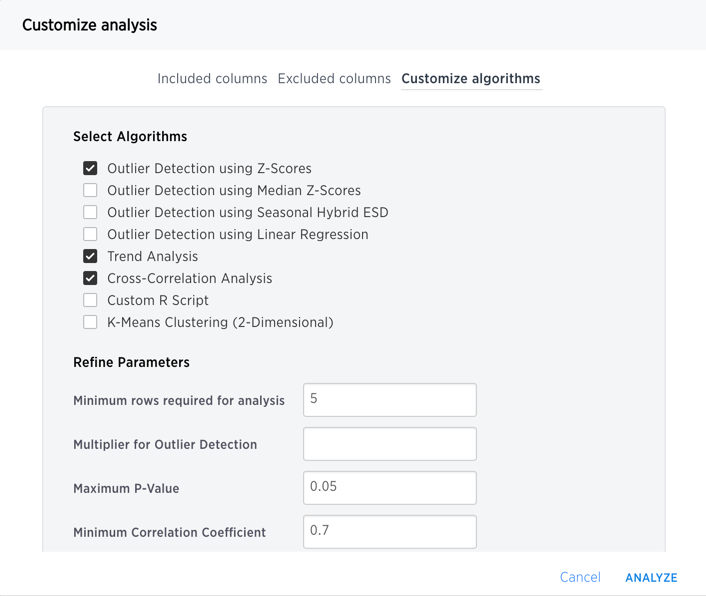
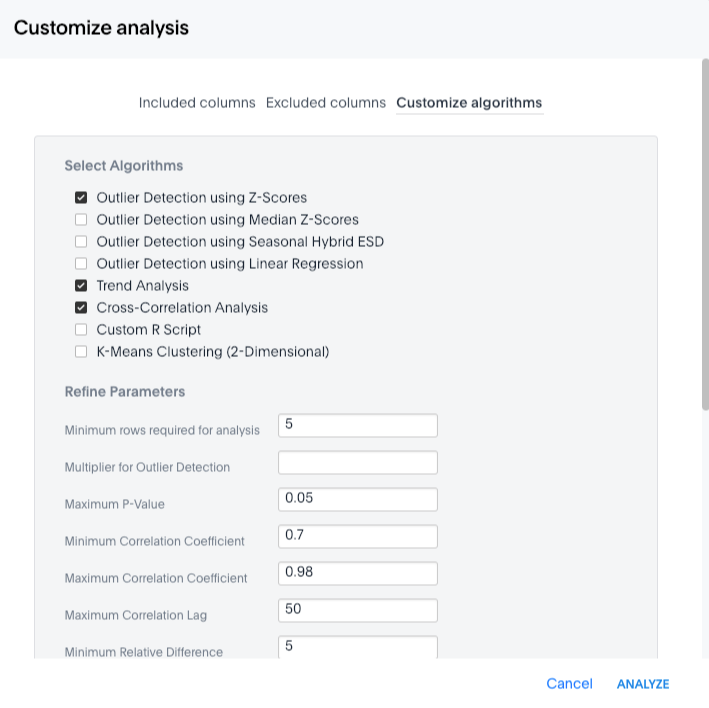
SCAL-31868 SpotIQ personalization + SearchIQ entity categories updates for 5.1

diff --git a/_admin/data-modeling/data-modeling-settings.md b/_admin/data-modeling/data-modeling-settings.md
@@ -29,7 +29,7 @@ This index lists the editable data modeling settings. With three exceptions, the
 | [Aggregation](change-aggreg-additive.html#) | Sets the default aggregation type for a column. |
 | [Hidden](change-visibility-synonym.html#) | Sets the visibility of a column. |
 | [Synonyms](change-visibility-synonym.html#) | Adds synonyms that can be used in the search bar to refer to a column. |
-| [SpotIQ Preference](change-visibility-synonym.html#) | Excludes specified columns from SpotIQ analyses. By Default, all columns are included in SpotIQ.|
+| [SpotIQ Preference](spotiq-data-model-preferences.html#) | Excludes specified columns from SpotIQ analyses. By Default, all columns are included in SpotIQ.|
 | [Index Type](change-index.html#) | Sets the type of index that will be created for a column. |
 | [Geo Config](model-geo-data.html#) | Enables a column to be used in GeoMap visualizations. |
 | [Index Priority](change-column-priority.html#) | Changes the priority of a column in search suggestions. |
@@ -37,7 +37,6 @@ This index lists the editable data modeling settings. With three exceptions, the
 | [Currency Format](set-format-pattern-numbers.html#set-currency-format) | Specifies the format to use when showing the currencies in a column. |
 | [Attribution Dimension](attributable-dimension.html#) | Only applies to tables that join over a [Chasm Trap]({{ site.baseurl }}/admin/loading/chasm-trap.html#). Designates whether the tables depend on this column for attribution. |
 | [Entity Category](set-entity-category.html#) | Specifies how to categorize the data in the column by entity type. Options are `PERSON`, `PLACE`, `TIME`, `MONEY`, `PRODUCT`, `ZIP_CODE`, `LAT_LONG`, `COMPANY_ORG`, `NUM_TYPES`. By default, `ENTITY TYPE` is not set. <br><br> Entity categories support [SearchIQ]({{ site.baseurl }}/end-user/search/about-searchiq.html#) so that when you type a natural question, ThoughtSpot better knows how to interpret it. <br><br>For example, if you ask "who are the top performers?" ThoughtSpot will first choose columns set with `PERSON` from which to return answers. If you ask "when was the movie Jurassic Park released?", columns set to `TIME` will be used to answer the "when" part of the question, and so forth.|
-
 
 ## Data modeling for worksheets
 

diff --git a/_admin/data-modeling/set-entity-category.md b/_admin/data-modeling/set-entity-category.md
@@ -1,0 +1,50 @@
+---
+title: [Set entity categories for SearchIQ ]
+keywords: tbd
+last_updated: tbd
+summary: "You can specify a per column entity category to help SearchIQ."
+sidebar: mydoc_sidebar
+permalink: /:collection/:path.html
+---
+
+[SearchIQ]({{ site.baseurl}}/end-user/search/about-searchiq.html) is a search
+experience that allows you to ask more natural questions, similar to the way you
+might talk to a person.
+
+If you have access to tables and worksheets for data modeling purposes, you can
+specify columns entity types for different columns in your data sources which
+support the SearchIQ user experience.
+
+## About the Entity Categories
+
+| Category            | Description                                          |
+| :---                | :---                                                 |
+| PERSON              |                                                      |
+| PLACE               |                                                      |
+| TIME                |                                                      |
+| PRODUCT             |                                                      |
+| ZIP_CODE            |                                                      |
+| LAT_LONG            |                                                      |
+| COMPANY_ORG         |                                                      |
+| NUM_TYPES           |                                                      |
+
+## Set Entity Categories
+
+To specify entity categories:
+
+1. Click **Data** in the top menu, and choose **Tables** or **Worksheets**.
+
+2. Click on the name of your table or worksheet.
+
+3. On the **Columns** tab, find the COLUMN NAMES for which you want to specify entity categories, and scroll to the right to find `ENTITY CATEGORY`.
+
+4. Use the drop-down menu to set the `ENTITY CATEGORY` to the type you want.
+
+5. Click **SAVE CHANGES** in the upper right.
+
+
+## Related information
+
+* [SpotIQ tutorial]({{ site.baseurl}}/spotiq/whatisspotiq.html)
+
+* [Overview of data modeling settings]({{ site.baseurl}}/admin/data-modeling/data-modeling-settings.html)

diff --git a/_admin/data-modeling/spotiq-data-model-preferences.md b/_admin/data-modeling/spotiq-data-model-preferences.md
@@ -1,0 +1,52 @@
+---
+title: [Set columns to exclude from SpotIQ analyses ]
+keywords: tbd
+last_updated: tbd
+summary: "You can specify columns to exclude from SpotIQ analyses."
+sidebar: mydoc_sidebar
+permalink: /:collection/:path.html
+---
+
+[SpotIQ tutorial]({{ site.baseurl}}/spotiq/whatisspotiq.html) is a ThoughtSpot
+feature  that helps users insights in data by automatically surfacing
+interesting characteristics.
+
+If you have access to tables and worksheets for data modeling purposes, you can specify columns to exclude from SpotIQ analyses from data sources. By default, all columns are included in SpotIQ analyses.
+
+## Exclude columns from SpotIQ analyses
+
+To specify columns to exclude from SpotIQ analyses:
+
+1. Click **Data** in the top menu, and choose **Tables** or **Worksheets**.
+
+2. Click on the name of your table or worksheet.
+
+3. On the **Columns** tab, find the COLUMN NAMES you want to exclude from SpotIQ analyses, and scroll to the right to find `SPOTIQ PREFERENCE`.
+
+4. Use the drop-down menu to set the `SPOTIQ PREFERENCE` to **EXCLUDE** for each column you want to exclude.
+
+5. Click **SAVE CHANGES** in the upper right.
+
+
+## Include columns in SpotIQ analyses
+
+By default, all columns are included in SpotIQ analyses.
+
+If you have previously set some columns to EXCLUDE and you want to re-set these to be included, do the following.
+
+1. Click **Data** in the top menu, and choose **Tables** or **Worksheets**.
+
+2. Click on the name of your table or worksheet.
+
+3. On the **Columns** tab, find the COLUMN NAMES you want to set back to include in SpotIQ analyses, and scroll to the right to find `SPOTIQ PREFERENCE`.
+
+4. Use the drop-down menu to set the `SPOTIQ PREFERENCE` to **DEFAULT** for each column you want to include.
+
+5. Click **SAVE CHANGES** in the upper right.
+
+
+## Related information  
+
+* [SpotIQ tutorial]({{ site.baseurl}}/spotiq/whatisspotiq.html)
+
+* [Overview of data modeling settings]({{ site.baseurl}}/admin/data-modeling/data-modeling-settings.html)

diff --git a/_spotiq/customization.md b/_spotiq/customization.md
@@ -22,7 +22,7 @@ Regardless of where you are in the ThoughtSpot UI, the SpotIQ **Customize
 Analysis** dialog has the same layout. The columns, of course, are specific to
 the data you launched the dialog from.
 
-![]({{ site.baseurl }}/images/spotiq-customize-algorithms.png)
+![]({{ site.baseurl }}/images/spotiq-customize-analysis-include.png)
 
 
 This dialog has three tabs:
@@ -30,7 +30,7 @@ This dialog has three tabs:
 * **Excluded columns**, where you can explicitly indicate which columns to exclude in an SpotIQ analysis. (You can select all, some, or none.)
 * **Customize Algorithms**, where you can run custom analyses and incorporate R scripts into SpotIQ.
 
-The **Customize Algorithms** is by far the most advanced panel.
+The **Customize Algorithms** is by far the most advanced panel. (The panel scrolls, so more algorithms are available than are shown in the picture below.)
 
  ![]({{ site.baseurl }}/images/spotiq-customize-algorithms.png)
 
@@ -43,12 +43,8 @@ The **Improve Analysis** dialog always excludes a value from all future analysis
 
 ![]({{ site.baseurl }}/images/spotiq-customize-improve-analysis.png)
 
-Finally, you can also set some analysis options from your user **Profile**.
-
-![]({{ site.baseurl }}/images/spotiq-profile-preferences.png)
-
-You'll notice only one of these options is actually related to analysis. The
-others relate to how you receive notifications about SpotIQ operations.
+You can set a subset of SpotIQ customization parameters in your
+[profile preferences]({{ site.baseurl }}/_end-user/introduction/about-user.html), along with options for email notifications when analyses run.
 
 ## Eliminate null values
 

diff --git a/_end-user/introduction/about-user.md b/_end-user/introduction/about-user.md
@@ -26,8 +26,23 @@ You can change your picture by clicking **Upload Picture**. The system accepts
 
 ## SpotIQ preferences and email notifications
 
-You can change your [SpotIQ]({{ site.baseurl }}/spotiq/overview.html) preferences by checking or unchecking the email and SpotIQ options.
+You can specify email notifications behavior along with exclude parameters and
+threshold settings used for your SpotIQ analyses.
+
+You can change your [SpotIQ]({{ site.baseurl }}/spotiq/overview.html) basic
+preferences by checking or unchecking the email and exclude preferences for analyses.
 
  ![]({{ site.baseurl }}/images/update_preferences.png "Update my preferences")
 
-Click **Sign out** to log out of ThoughtSpot, and return to the sign in page.
+ Click **Insight Threshold Settings** to further refine parameters SpotIQ will use.
+
+ ![]({{ site.baseurl }}/images/update_preferences_spotiq_thresholds.png "Update my preferences")
+
+ These parameters and threshold settings are a subset of those available on the
+ [SpotIQ Customize analysis]({{ site.baseurl }}/spotiq/customization.html) dialog.
+ If you set them here, the settings will persist for all your SpotIQ analyses including
+ when you run custom analyses, unless you explicitly reset options for a custom analysis.
+
+## Logging out
+
+Click **Profile > Sign out** to log out of ThoughtSpot, and return to the sign in page.
